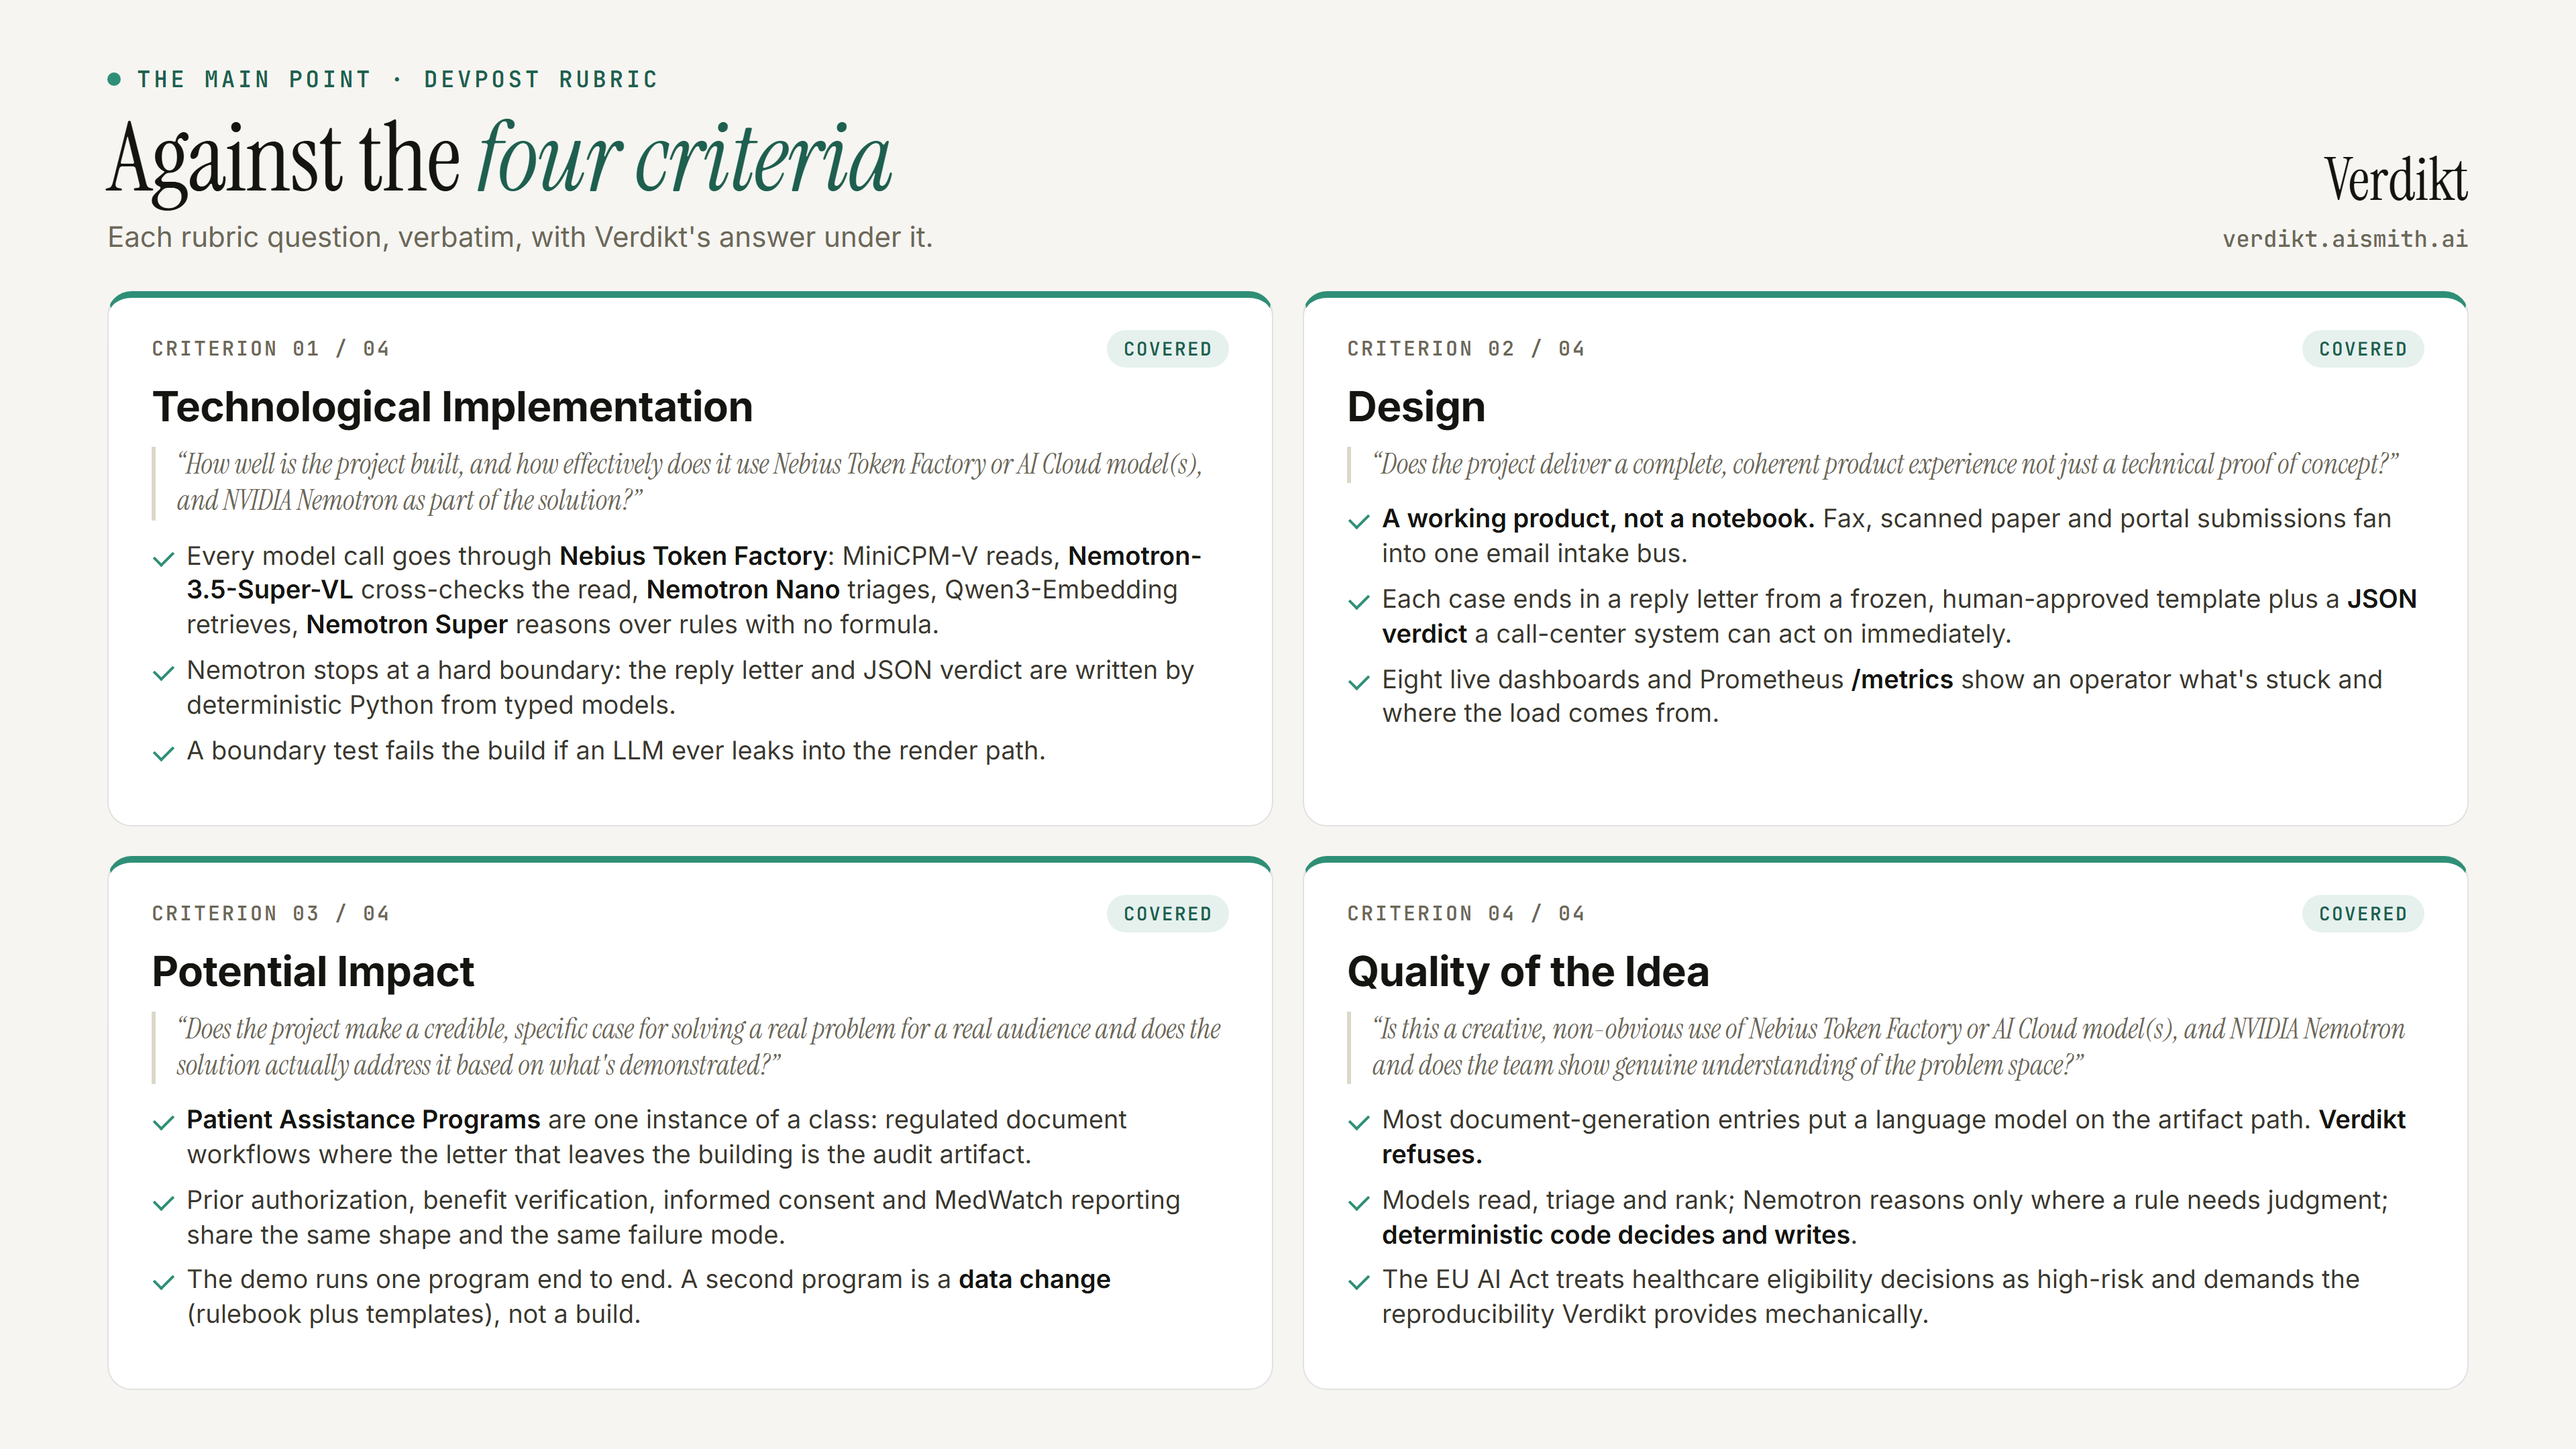
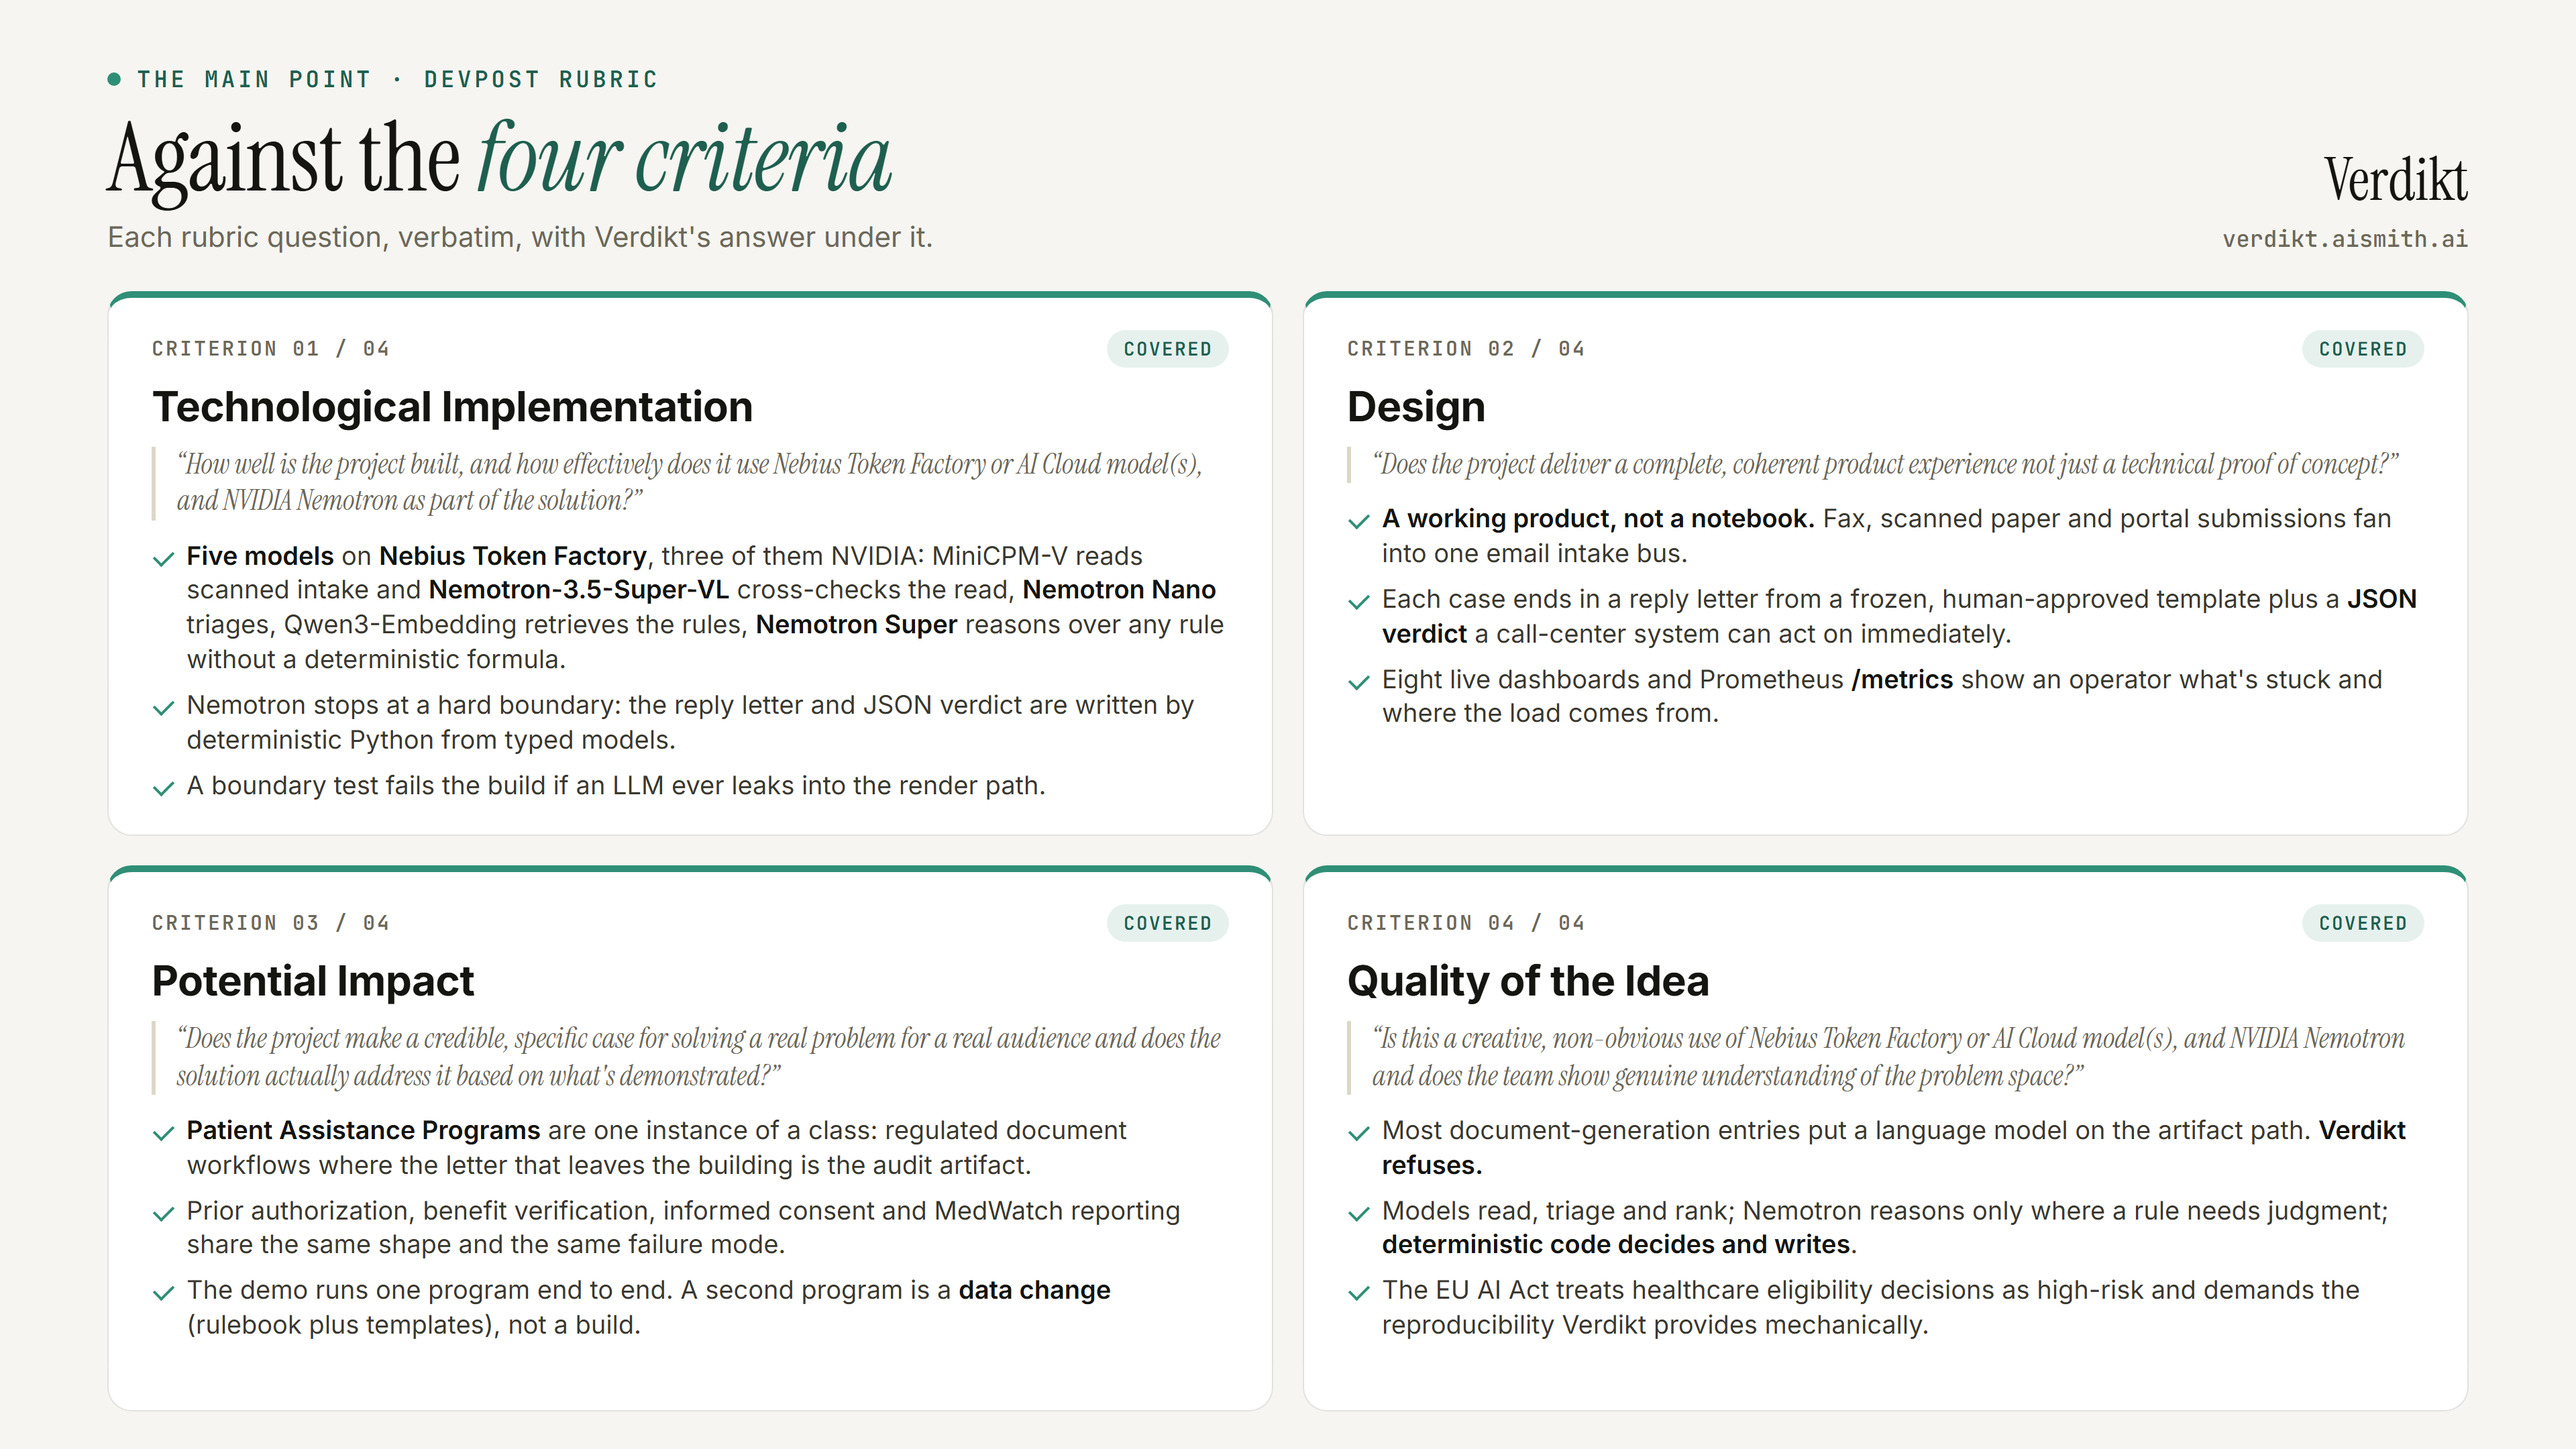
Submission slide: criterion 1 uses the page's five-model wording

Changed region(s): [[0.0312, 0.5894, 0.9688, 0.9306], [0.0625, 0.3722, 0.4688, 0.5583]]

diff --git a/submission/slides/judging-criteria-slide.html b/submission/slides/judging-criteria-slide.html
@@ -64,7 +64,7 @@
       <h2>Technological Implementation</h2>
       <blockquote>“How well is the project built, and how effectively does it use Nebius Token Factory or AI Cloud model(s), and NVIDIA Nemotron as part of the solution?”</blockquote>
       <ul>
-        <li>Every model call goes through <b>Nebius Token Factory</b>: MiniCPM-V reads, <b>Nemotron-3.5-Super-VL</b> cross-checks the read, <b>Nemotron Nano</b> triages, Qwen3-Embedding retrieves, <b>Nemotron Super</b> reasons over rules with no formula.</li>
+        <li><b>Five models</b> on <b>Nebius Token Factory</b>, three of them NVIDIA: MiniCPM-V reads scanned intake and <b>Nemotron-3.5-Super-VL</b> cross-checks the read, <b>Nemotron Nano</b> triages, Qwen3-Embedding retrieves the rules, <b>Nemotron Super</b> reasons over any rule without a deterministic formula.</li>
         <li>Nemotron stops at a hard boundary: the reply letter and JSON verdict are written by deterministic Python from typed models.</li>
         <li>A boundary test fails the build if an LLM ever leaks into the render path.</li>
       </ul>
